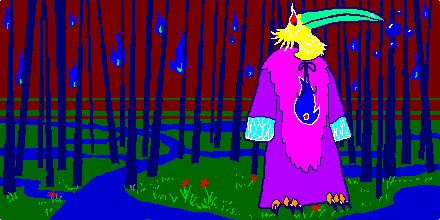
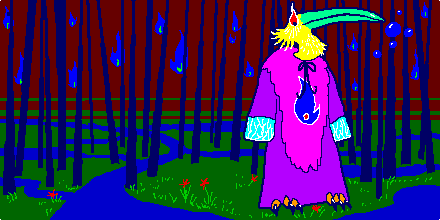
Fix some colour issues on some templates, make the colours more random

diff --git a/main.py b/main.py
@@ -31,6 +31,7 @@ twitterConfig = {
 # random template
 templateImageList = os.listdir('%s/templates' % dir)
 templateImage = Image.open('%s/templates/%s' % (dir, random.choice(templateImageList)))
+# templateImage = Image.open('%s/templates/call-of-the-wizard.png' % dir)
 templateImage = templateImage.convert('RGBA')
 
 # random  fill image
@@ -113,7 +114,7 @@ imageIndex = random.randint(0, len(coloursToReplace) -1)
 # Generate Random Colours
 randomColours = []
 for i in range(0, len(coloursToReplace)):
-    c = Color(hsl=(random.uniform(0, 1), random.uniform(0.7, 1), 0.5))
+    c = Color(hsl=(random.uniform(0, 1), random.uniform(0, 1), random.uniform(0, 1)))
     r = max(0, int(round(c.red * 256 -1)))
     g = max(0, int(round(c.green * 256 -1)))
     b = max(0, int(round(c.blue * 256 -1)))
